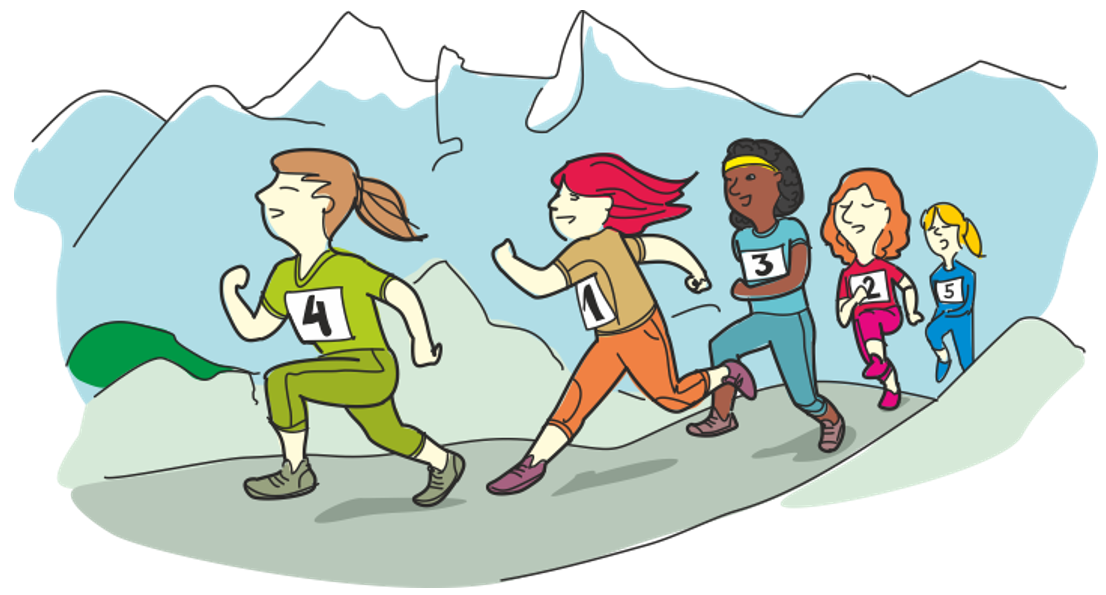
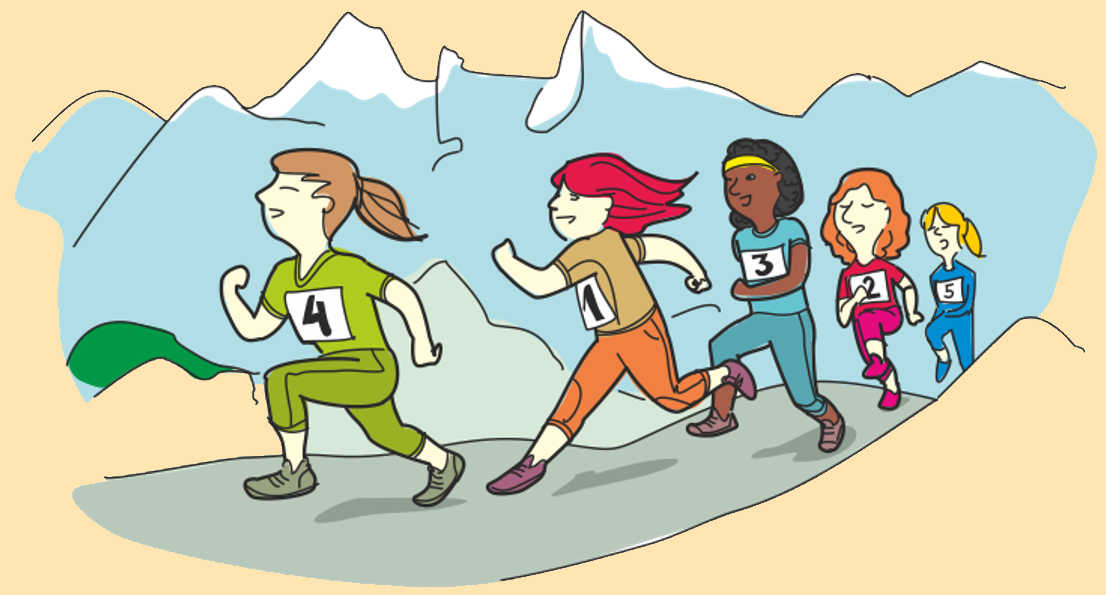
bilder hinzugefügt zu jeder seite

diff --git a/src/views/Home.vue b/src/views/Home.vue
@@ -1,19 +1,24 @@
 <template>
   <div class="home">
+    <h1>Willkommen in der Lernumgebung <br>
+    Einfach Informatik 3/4</h1>
+    <p> 
+      <img src="../assets/home.png"/>
+    </p>
     1. Signalfolgen erkennen | <router-link :to="{name: 'SfErkennen_leicht'}">leicht</router-link> | <router-link :to="{name: 'SfErkennen_schwer'}">schwierig</router-link> <br> <br>  
     2. Signalfolgen ergänzen | <router-link :to="{name: 'SfErgaenzen_leicht'}">leicht</router-link> | <router-link :to="{name: 'SfErgaenzen_mittel'}">mittel</router-link>  | <router-link :to="{name: 'SfErgaenzen_schwer'}">schwierig</router-link> <br> <br>  
     3. Signalfolgen Anzahl Lösungen | <router-link :to="{name: 'SfAnzahlLoesungen_leicht'}">leicht</router-link> | <router-link :to="{name: 'SfAnzahlLoesungen_schwer'}">schwierig</router-link> <br> <br> 
     4. Fehlerhafte Signalfolge korrigieren | <router-link :to="{name: 'SfFehlerhafteFolge'}">mittel</router-link> <br> <br>
     5. Signalfolgen Abstände | <router-link :to="{name: 'SfAbstaende_mittel'}">mittel</router-link> | <router-link :to="{name: 'SfAbstaende_schwer'}">schwierig</router-link><br> <br>
     6. Eigene Signalfolgen Erstellen | <router-link :to="{name: 'SfErstellen_leicht'}">leicht</router-link> | <router-link :to="{name: 'SfErstellen_schwer'}">schwierig</router-link> <br> <br>
-    7. <b>(Neu)</b> Bauteile für Biberdamm bestellen | <router-link :to="{name: 'SfBauen_bestellen_leicht'}">leicht</router-link> | <router-link :to="{name: 'SfBauen_bestellen_schwer'}">schwierig</router-link><br><br>
-    8. <b>(Neu)</b> Bauteile für Biberdamm erkennen | <router-link :to="{name: 'SfBauen_erkennen_leicht'}">leicht</router-link> | <router-link :to="{name: 'SfBauen_erkennen_schwer'}">schwierig</router-link><br><br>
+    7. Bauteile für Biberdamm bestellen | <router-link :to="{name: 'SfBauen_bestellen_leicht'}">leicht</router-link> | <router-link :to="{name: 'SfBauen_bestellen_schwer'}">schwierig</router-link><br><br>
+    8. Bauteile für Biberdamm erkennen | <router-link :to="{name: 'SfBauen_erkennen_leicht'}">leicht</router-link> | <router-link :to="{name: 'SfBauen_erkennen_schwer'}">schwierig</router-link><br><br>
     9. Topologische Sortierung erkennen (Kleider) | <router-link :to="{name: 'TopSortErkennen_Kleider_leicht'}">leicht</router-link> | <router-link :to="{name: 'TopSortErkennen_Kleider_schwer'}">schwierig</router-link> <br> <br>
     10. Topologische Sortierung erstellen (Kleider) | <router-link :to="{name: 'TopSortErstellen_Kleider_schwer'}">schwierig</router-link> <br> <br>
-    11. <b>(Neu)</b> Topologische Sortierung erkennen (Backen) | <router-link :to="{name: 'TopSortErkennen_Backen_schwer'}">schwierig</router-link> <br> <br>
-    12. <b>(Neu)</b> Topologische Sortierung erstellen (Backen) | <router-link :to="{name: 'TopSortErstellen_Backen_schwer'}">schwierig</router-link> <br> <br>
-    13. <b>(Neu)</b> Topologische Sortierung erkennen (Marathon) | <router-link :to="{name: 'TopSortErkennen_Marathon_schwer'}">schwierig</router-link> <br> <br>
-    14. <b>(Neu)</b> Topologische Sortierung erstellen (Marathon) | <router-link :to="{name: 'TopSortErstellen_Marathon_schwer'}">schwierig</router-link> <br> <br>
+    11. Topologische Sortierung erkennen (Backen) | <router-link :to="{name: 'TopSortErkennen_Backen_schwer'}">schwierig</router-link> <br> <br>
+    12. Topologische Sortierung erstellen (Backen) | <router-link :to="{name: 'TopSortErstellen_Backen_schwer'}">schwierig</router-link> <br> <br>
+    13. Topologische Sortierung erkennen (Marathon) | <router-link :to="{name: 'TopSortErkennen_Marathon_schwer'}">schwierig</router-link> <br> <br>
+    14. Topologische Sortierung erstellen (Marathon) | <router-link :to="{name: 'TopSortErstellen_Marathon_schwer'}">schwierig</router-link> <br> <br>
   </div>
 </template>
 
@@ -28,3 +33,13 @@ export default defineComponent({
   },
 });
 </script>
+
+<style>
+  img {
+    width: 50%;
+  }
+
+  body {
+    background-color: #FFE5B2;
+  }
+</style>

diff --git a/src/views/SfErkennen_leicht.vue b/src/views/SfErkennen_leicht.vue
@@ -1,6 +1,9 @@
 <template>
     <div class="CodesErkennen">
-      <router-link to="/">Hauptmenü</router-link> <br> <br>
+      <router-link to="/">Hauptmenü</router-link>
+      <p>
+        <img class="rauchzeichen_bild" style="width:50%; height: auto" src="../assets/rauchzeichen.png" />
+      </p>
       <button @click="reloadPage()">Neue Aufgabe</button> <br> <br>
       Biber Bob entscheidet sich, das Wetter mit folgenden Rauchzeichen zu kodieren: <br> <br>
         
@@ -241,6 +244,7 @@ export default defineComponent({
 
 
 <style scoped>
+
     .CodesErkennen{
         background-color: #FFE5B2;
         padding: 20px 20px 20px 20px;
@@ -310,6 +314,5 @@ export default defineComponent({
       padding: 0 0 0 25px;
       text-align: left;
     }
-
 
 </style>

diff --git a/src/views/SfAbstaende_mittel.vue b/src/views/SfAbstaende_mittel.vue
@@ -1,6 +1,9 @@
 <template>
     <div class="CodesAbstaende">
-      <router-link to="/">Hauptmenü</router-link> <br> <br>
+      <router-link to="/">Hauptmenü</router-link>
+      <p>
+        <img class="rauchzeichen_bild" style="width:50%; height: auto" src="../assets/rauchzeichen.png" />
+      </p>
       <button @click="reloadPage()">Neue Aufgabe</button> <br> <br>
       Betrachten wir uns mal zwei Kodierungen. Sie unterscheiden sich an 2 Stellen, die je mit einem Pfeil markiert sind. <br> <br>
         <!-- Automatisierte Version, man muss einfach den css noch anpassen -->

diff --git a/src/views/SfAbstaende_schwer.vue b/src/views/SfAbstaende_schwer.vue
@@ -1,6 +1,9 @@
 <template>
     <div class="CodesAbstaende">
-      <router-link to="/">Hauptmenü</router-link> <br> <br>
+      <router-link to="/">Hauptmenü</router-link>
+      <p>
+        <img class="rauchzeichen_bild" style="width:50%; height: auto" src="../assets/rauchzeichen.png" />
+      </p>
       <button @click="reloadPage()">Neue Aufgabe</button> <br> <br>
       Betrachten wir uns mal zwei Kodierungen. Sie unterscheiden sich an 2 Stellen, die je mit einem Pfeil markiert sind. <br> <br>
         <!-- Automatisierte Version, man muss einfach den css noch anpassen -->

diff --git a/src/views/SfBauen_bestellen_leicht.vue b/src/views/SfBauen_bestellen_leicht.vue
@@ -1,6 +1,9 @@
 <template>
     <div class="CodesErgaenzen">
-        <router-link to="/">Hauptmenü</router-link> <br> <br>
+        <router-link to="/">Hauptmenü</router-link>
+        <p>
+          <img class="bauen_bild" style="width:40%; height: auto" src="../assets/bauen.png" />
+        </p>
         <button @click="reloadPage()">Neue Aufgabe</button> <br> <br>
       Biberin Bea möchte sich einen Damm bauen. Sie hat einen Katalog, aus dem Sie das nötige Material bestellen kann. <br> <br>
         <!-- Automatisierte Version, man muss einfach den css noch anpassen -->

diff --git a/src/views/SfBauen_bestellen_schwer.vue b/src/views/SfBauen_bestellen_schwer.vue
@@ -1,6 +1,9 @@
 <template>
     <div class="CodesErgaenzen">
-        <router-link to="/">Hauptmenü</router-link> <br> <br>
+        <router-link to="/">Hauptmenü</router-link>
+        <p>
+          <img class="bauen_bild" style="width:40%; height: auto" src="../assets/bauen.png" />
+        </p>
         <button @click="reloadPage()">Neue Aufgabe</button> <br> <br>
       Biberin Bea möchte sich einen Damm bauen. Sie hat einen Katalog, aus dem Sie das nötige Material bestellen kann. <br> <br>
         <!-- Automatisierte Version, man muss einfach den css noch anpassen -->

diff --git a/src/views/SfBauen_erkennen_leicht.vue b/src/views/SfBauen_erkennen_leicht.vue
@@ -1,6 +1,9 @@
 <template>
     <div class="CodesErgaenzen">
-        <router-link to="/">Hauptmenü</router-link> <br> <br>
+        <router-link to="/">Hauptmenü</router-link>
+        <p>
+          <img class="bauen_bild" style="width:40%; height: auto" src="../assets/bauen.png" />
+        </p>
         <button @click="reloadPage()">Neue Aufgabe</button> <br> <br>
       Biberin Bea möchte sich einen Damm bauen. Sie hat einen Katalog, aus dem Sie das nötige Material bestellen kann. <br> <br>
         <!-- Automatisierte Version, man muss einfach den css noch anpassen -->

diff --git a/src/views/SfBauen_erkennen_schwer.vue b/src/views/SfBauen_erkennen_schwer.vue
@@ -1,6 +1,9 @@
 <template>
     <div class="CodesErgaenzen">
-        <router-link to="/">Hauptmenü</router-link> <br> <br>
+        <router-link to="/">Hauptmenü</router-link>
+        <p>
+          <img class="bauen_bild" style="width:40%; height: auto" src="../assets/bauen.png" />
+        </p>
         <button @click="reloadPage()">Neue Aufgabe</button> <br> <br>
       Biberin Bea möchte sich einen Damm bauen. Sie hat einen Katalog, aus dem Sie das nötige Material bestellen kann. <br> <br>
         <!-- Automatisierte Version, man muss einfach den css noch anpassen -->

diff --git a/src/views/SfErgaenzen_leicht.vue b/src/views/SfErgaenzen_leicht.vue
@@ -1,6 +1,9 @@
 <template>
     <div class="CodesErgaenzen">
-        <router-link to="/">Hauptmenü</router-link> <br> <br>
+        <router-link to="/">Hauptmenü</router-link>
+        <p>
+          <img class="rauchzeichen_bild" style="width:50%; height: auto" src="../assets/rauchzeichen.png" />
+        </p>
         <button @click="reloadPage()">Neue Aufgabe</button> <br> <br>
       Biber Bob sendet folgende Rauchzeichen, um das Wetter für einen Tag vorauszusagen. <br> <br>
         <!-- Automatisierte Version, man muss einfach den css noch anpassen -->

diff --git a/src/views/SfErgaenzen_mittel.vue b/src/views/SfErgaenzen_mittel.vue
@@ -1,6 +1,9 @@
 <template>
     <div class="CodesErgaenzen">
-        <router-link to="/">Hauptmenü</router-link> <br> <br>
+        <router-link to="/">Hauptmenü</router-link>
+        <p>
+          <img class="rauchzeichen_bild" style="width:50%; height: auto" src="../assets/rauchzeichen.png" />
+        </p>
         <button @click="reloadPage()">Neue Aufgabe</button> <br> <br>
       Biber Bob sendet folgende Rauchzeichen, um das Wetter für einen Tag vorauszusagen. <br> <br>
         <!-- Automatisierte Version, man muss einfach den css noch anpassen -->

diff --git a/src/views/SfErgaenzen_schwer.vue b/src/views/SfErgaenzen_schwer.vue
@@ -1,6 +1,9 @@
 <template>
     <div class="CodesErgaenzen">
-        <router-link to="/">Hauptmenü</router-link> <br> <br>
+        <router-link to="/">Hauptmenü</router-link>
+        <p>
+          <img class="rauchzeichen_bild" style="width:50%; height: auto" src="../assets/rauchzeichen.png" />
+        </p>
         <button @click="reloadPage()">Neue Aufgabe</button> <br> <br>
       Biber Bob sendet folgende Rauchzeichen, um das Wetter für einen Tag vorauszusagen. <br> <br>
         <!-- Automatisierte Version, man muss einfach den css noch anpassen -->

diff --git a/src/views/SfAnzahlLoesungen_schwer.vue b/src/views/SfAnzahlLoesungen_schwer.vue
@@ -1,6 +1,9 @@
 <template>
     <div class="CodesAnzahlLoesungen">  
-      <router-link to="/">Hauptmenü</router-link> <br> <br>
+      <router-link to="/">Hauptmenü</router-link>
+      <p>
+        <img class="rauchzeichen_bild" style="width:50%; height: auto" src="../assets/rauchzeichen.png" />
+      </p>
       <button @click="reloadPage()">Neue Aufgabe</button> <br> <br>
       Biber Bob sendet folgende Rauchzeichen, um das Wetter für einen Tag vorauszusagen. <br> <br>
         <!-- Automatisierte Version, man muss einfach den css noch anpassen -->
